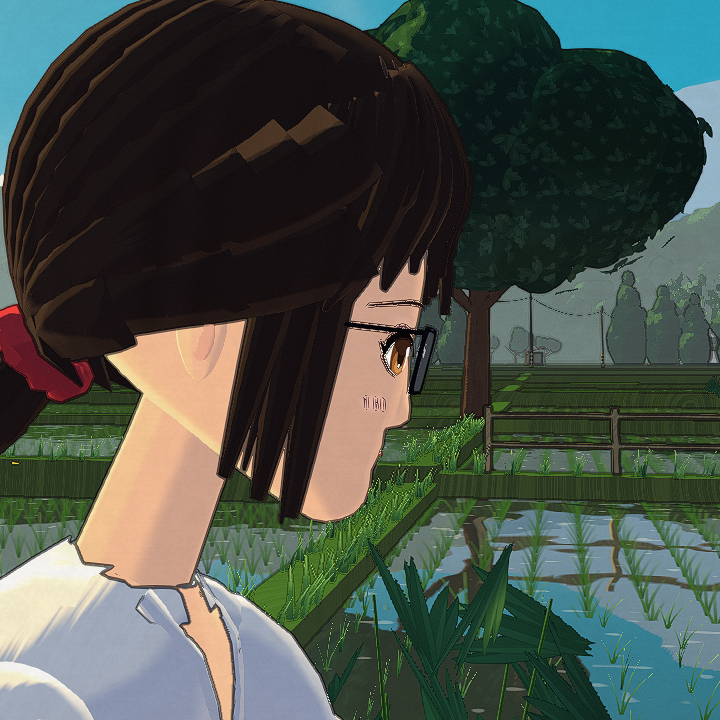
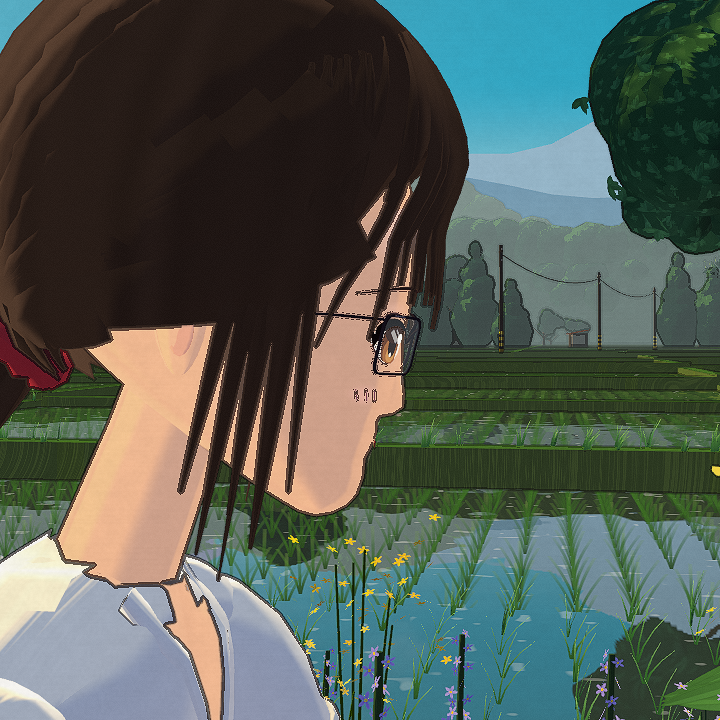
Head pass 2: layered airy hair (thin tapered bangs with gaps, swaying chin-length side locks, sweep strands over the ears, nape wisps, smooth radial hair shading), warm brown hair, fitted thin glasses, far-side skin shade, lid crease; character-only warm brown ink

diff --git a/src/rider/rider.ts b/src/rider/rider.ts
@@ -13,7 +13,7 @@ export { BIKE, PARK_LEAN, PARK_STEER } from "./bike";
  */
 
 const SKIN = "#f2cdb0";
-const HAIR = "#35271f";
+const HAIR = "#3b2c26";
 const SHORTS = "#1d2233";
 const BLOUSE = "#f6f4ef";
 /** Dusty navy-blue midi skirt. */
@@ -253,13 +253,13 @@ function placeOnHead(g: THREE.BufferGeometry, az: number, el: number, lift: numb
 }
 
 /** Hair volume above the skin: fuller on the crown and the back. */
-const shellOff = (d: THREE.Vector3) => 0.013 + 0.027 * Math.pow(Math.max(0, d.y), 1.2) + 0.016 * Math.max(0, d.z) * (0.6 + 0.4 * Math.max(0, d.y + 0.3));
+const shellOff = (d: THREE.Vector3) => 0.013 + 0.033 * Math.pow(Math.max(0, d.y), 1.2) + 0.016 * Math.max(0, d.z) * (0.6 + 0.4 * Math.max(0, d.y + 0.3)) + 0.007 * Math.abs(d.x) * smooth(-0.2, 0.4, d.y);
 
 /**
  * Tapered clump / ribbon along a path: diamond cross-section (sides ±w, ridge +th along `ups`,
  * a flatter belly underneath), smooth normals, closed ends, all faces wound outward.
  */
-function ribbon(pts: THREE.Vector3[], ups: THREE.Vector3[], w: number[], th: number[], color: string, mat: number, belly = 0.35): THREE.BufferGeometry {
+function ribbon(pts: THREE.Vector3[], ups: THREE.Vector3[], w: number[], th: number[], color: string, mat: number, belly = 0.35, radialN = 0): THREE.BufferGeometry {
   const n = pts.length;
   const pos: number[] = [];
   const idx: number[] = [];
@@ -304,6 +304,18 @@ function ribbon(pts: THREE.Vector3[], ups: THREE.Vector3[], w: number[], th: num
   g.setAttribute("position", new THREE.Float32BufferAttribute(pos, 3));
   g.setIndex(idx);
   g.computeVertexNormals();
+  // Hair lights as one mass: bend the strand normals toward the head's radial direction so the
+  // cel step runs as a smooth band over the hair instead of stair-stepping strand by strand.
+  if (radialN > 0) {
+    const na = g.attributes.normal, pa = g.attributes.position;
+    const nv = new THREE.Vector3(), rv = new THREE.Vector3();
+    for (let i = 0; i < na.count; i++) {
+      nv.fromBufferAttribute(na, i);
+      rv.fromBufferAttribute(pa, i).normalize();
+      nv.lerp(rv, radialN).normalize();
+      na.setXYZ(i, nv.x, nv.y, nv.z);
+    }
+  }
   return prep(g, color, mat);
 }
 
@@ -323,11 +335,11 @@ function hairStrand(az0: number, el0: number, az1: number, el1: number, width: n
     const off = (over ? 0.0022 + shellOff(d) : 0.006 + (shellOff(d) - 0.01) * f) + lift * t * t;
     pts.push(d.clone().multiplyScalar(faceR(d) + off));
     ups.push(radialNormal(d, faceR));
-    const ww = width * (0.28 + 0.72 * (1 - Math.pow(t, 1.8))) * (1 - 0.6 * Math.pow(t, 8));
+    const ww = width * (0.12 + 0.88 * (1 - Math.pow(t, 1.6))) * (1 - 0.6 * Math.pow(t, 8));
     w.push(ww);
     th.push(thick * (0.4 + 0.6 * ww / width));
   }
-  return ribbon(pts, ups, w, th, HAIR, M.hair, 0.5);
+  return ribbon(pts, ups, w, th, HAIR, M.hair, 0.5, 0.8);
 }
 
 /** Push a head-space point out to at least `off` above the skin. */
@@ -342,7 +354,7 @@ function offHead(p: THREE.Vector3, off: number): THREE.Vector3 {
  * hairline), then hangs straight down to yEnd past the cheek (never hugging the jaw), drifting
  * `fwd` in z; tapered to a narrow tip.
  */
-function hangLock(az0: number, el0: number, az1: number, el1: number, yEnd: number, width: number, fwd: number): THREE.BufferGeometry {
+function hangLock(az0: number, el0: number, az1: number, el1: number, yEnd: number, width: number, fwd: number, curl = 0): THREE.BufferGeometry {
   const pts: THREE.Vector3[] = [], ups: THREE.Vector3[] = [], w: number[] = [], th: number[] = [];
   const N1 = 8, N2 = 7, N = N1 + N2;
   for (let k = 0; k < N1; k++) {
@@ -357,17 +369,17 @@ function hangLock(az0: number, el0: number, az1: number, el1: number, yEnd: numb
   const p1 = pts[N1 - 1].clone(), sx = Math.sign(p1.x);
   for (let k = 1; k <= N2; k++) {
     const t = k / N2;
-    const p = V(p1.x - sx * 0.005 * t * t, p1.y + (yEnd - p1.y) * t, p1.z + fwd * t);
+    const p = V(p1.x - sx * (0.005 + curl) * t * t, p1.y + (yEnd - p1.y) * t, p1.z + fwd * t);
     pts.push(offHead(p, 0.0045));
     ups.push(V(p.x, 0, p.z * 0.5).normalize());
   }
   for (let k = 0; k < N; k++) {
     const t = k / (N - 1);
-    const ww = width * (0.2 + 0.8 * (1 - Math.pow(t, 1.6))) * (0.8 + 0.2 * smooth(0, 0.15, t));
+    const ww = width * (0.1 + 0.9 * (1 - Math.pow(t, 1.5))) * (0.8 + 0.2 * smooth(0, 0.15, t));
     w.push(ww);
-    th.push(0.0055 * (0.4 + 0.6 * ww / width));
+    th.push(0.004 * (0.4 + 0.6 * ww / width));
   }
-  return ribbon(pts, ups, w, th, HAIR, M.hair, 0.5);
+  return ribbon(pts, ups, w, th, HAIR, M.hair, 0.5, 0.8);
 }
 
 /**
@@ -1303,11 +1315,11 @@ export class Rider {
         la.push(az + s * X);
         le.push(EYE_EL + yTop(X) + 0.06 * hh);
         const t = k / 14;
-        lw.push(0.0008 + 0.0019 * Math.pow(t, 1.4));
+        lw.push(0.0008 + 0.0026 * Math.pow(t, 1.5));
       }
       la.push(az + s * hw * 1.2);
-      le.push(EYE_EL + tilt + 0.34 * hh);
-      lw.push(0.0005);
+      le.push(EYE_EL + tilt + 0.4 * hh);
+      lw.push(0.0007);
       eye.add(new THREE.Mesh(local(stroke(la, le, lw, 0.0036, "#1e120e")), uber(ID.eye, INK)));
       // Faint lower lash on the outer half.
       const ba: number[] = [], be: number[] = [], bw: number[] = [];
@@ -1325,9 +1337,9 @@ export class Rider {
         const X = hw * (-0.55 + (k / 8) * 1.4);
         ca.push(az + s * X);
         ce.push(EYE_EL + yTop(X) + 0.42 * hh);
-        cw.push(0.00045 * Math.sin(Math.PI * (k / 8)) + 0.0001);
+        cw.push(0.0006 * Math.sin(Math.PI * (k / 8)) + 0.00012);
       }
-      eye.add(new THREE.Mesh(local(stroke(ca, ce, cw, 0.0018, "#b27a6c")), uber(ID.eye, INK)));
+      eye.add(new THREE.Mesh(local(stroke(ca, ce, cw, 0.0018, "#8e5e50")), uber(ID.eye, INK)));
       // Thin, soft brow just above the frame, tapering to the tail.
       const brow: [number, number][] = [], bwid: number[] = [];
       for (let k = 0; k <= 10; k++) {
@@ -1348,7 +1360,7 @@ export class Rider {
     soft(placeOnHead(new THREE.CircleGeometry(1, 24).scale(0.035, 0.03, 1), 0, -1.2, 0.0012), SHADE, 0.5, 0);
     softXY(new THREE.CircleGeometry(1, 28).scale(0.06, 0.04, 1), 0, -0.058, 0.0009, [0.97, 0.7, 0.62], 0.16);
     // Soft cel shade under the fringe onto the forehead.
-    soft(placeOnHead(new THREE.PlaneGeometry(0.17, 0.04, 16, 6), 0, 0.42, 0.0011), SHADE, 0.5, 2);
+    soft(placeOnHead(new THREE.PlaneGeometry(0.17, 0.05, 16, 6), 0, 0.4, 0.0011), SHADE, 0.62, 2);
     // Nose: the tip is sculpted; add a small shade on one side and a faint nostril hint.
     const noseShade = strokeXY([[-0.0045, -0.036], [-0.0055, -0.043], [-0.0035, -0.048]], [0.00035, 0.0006, 0.0003], 0.001, "#d59a88");
     this.head.add(new THREE.Mesh(noseShade, uber(ID.eye, INK)));
@@ -1405,9 +1417,9 @@ export class Rider {
    * ears. Flat acetate material, one tiny highlight on each top rim; faint lenses with a glint.
    */
   private buildGlasses(eyeX: number, eyeY: number): void {
-    const FR = "#121014", HI = "#6a6570";
-    const W = 0.058, H = 0.033, RC = 0.0085;
-    const SIDE = 0.0017, TOP = 0.0023, BOT = 0.0017, DEPTH = 0.0024, CLEAR = 0.0095;
+    const FR = "#2a2024", HI = "#7a7078";
+    const W = 0.045, H = 0.029, RC = 0.0072;
+    const SIDE = 0.0011, TOP = 0.0015, BOT = 0.0011, DEPTH = 0.0016, CLEAR = 0.0052;
     const rrect = <T extends THREE.Path>(shape: T, x0: number, y0: number, x1: number, y1: number, r: number): T => {
       shape.moveTo(x0 + r, y0);
       shape.lineTo(x1 - r, y0);
@@ -1430,9 +1442,9 @@ export class Rider {
     };
     const bridgeEnds: THREE.Vector3[] = [];
     for (const s of [-1, 1]) {
-      const [az, el] = faceAt(s * (eyeX + 0.003), eyeY + 0.001);
+      const [az, el] = faceAt(s * (eyeX + 0.001), eyeY + 0.001);
       const d = dirOf(az, el);
-      const n = dirOf(s * 0.14, -0.04);
+      const n = dirOf(s * 0.44, -0.04);
       const ex = V(0, 1, 0).cross(n).normalize(); // ≈ -X
       const ey = n.clone().cross(ex).normalize();
       const C = d.clone().multiplyScalar(faceR(d));
@@ -1468,22 +1480,26 @@ export class Rider {
       // Hinge at the outer top corner; the temple runs straight back over the ear, then bends down.
       const hinge = V(-s * (W / 2 + SIDE * 0.5), H / 2 - 0.002, -DEPTH / 2).applyMatrix4(basis);
       const [Wy, Fy, By] = profAt(eyeY + 0.006);
-      const earTop = outside(V(s * (Wy + 0.004), eyeY + 0.004, 0.006), 0.0035);
+      const earTop = outside(V(s * (Wy + 0.002), eyeY + 0.004, 0.006), 0.0022);
       const behind = outside(V(s * (Wy - 0.008), eyeY - 0.016, 0.022), 0.0005);
       void Fy;
       void By;
       let prev = hinge;
       const path: THREE.Vector3[] = [];
-      for (let k = 1; k <= 8; k++) path.push(outside(hinge.clone().lerp(earTop, k / 8), 0.0035));
+      for (let k = 1; k <= 8; k++) path.push(outside(hinge.clone().lerp(earTop, k / 8), 0.0022));
       path.push(earTop.clone().lerp(behind, 0.5).add(V(s * 0.001, 0.001, 0)), behind);
       for (const p of path) {
-        parts.push(beam(prev, p, 0.0012, FR, M.lacquer, 6));
+        parts.push(beam(prev, p, 0.0008, FR, M.lacquer, 6));
         prev = p;
       }
     }
     const [bA, bB] = bridgeEnds;
-    const mid = bA.clone().add(bB).multiplyScalar(0.5).add(V(0, 0.0025, 0.001));
-    parts.push(beam(bA, mid, 0.0013, FR, M.lacquer, 6), beam(mid, bB, 0.0013, FR, M.lacquer, 6));
+    // Thin bridge dipping onto the nose between the lenses.
+    const [nAz, nEl] = faceAt(0, eyeY + 0.001);
+    const nd0 = dirOf(nAz, nEl);
+    const mid = nd0.clone().multiplyScalar(faceR(nd0) + 0.0016);
+    const qA = bA.clone().lerp(mid, 0.5).add(V(0, 0.0012, 0)), qB = bB.clone().lerp(mid, 0.5).add(V(0, 0.0012, 0));
+    parts.push(beam(bA, qA, 0.0009, FR, M.lacquer, 6), beam(qA, mid, 0.0009, FR, M.lacquer, 6), beam(mid, qB, 0.0009, FR, M.lacquer, 6), beam(qB, bB, 0.0009, FR, M.lacquer, 6));
     // Black acetate is its own line: excluded from the ink pass so it never doubles up.
     const frames = new THREE.Mesh(merge(parts), uber(ID.eye, -1));
     this.head.add(frames);
@@ -1527,33 +1543,39 @@ export class Rider {
     shell.computeVertexNormals();
     this.add(prep(shell, HAIR, M.hair), this.head, ID.hair);
 
-    // Airy fringe: separate tapered strands from a slightly off-centre part, tips just above the
-    // brows with the forehead showing between them; the outer ones sweep over the temples. Each
-    // strand pivots at its root and sways on a spring in update().
+    // Airy fringe after the sheet: many thin, tapered, gently curved strands of varied length from
+    // a part just off centre, falling to the brows / top of the frames with the forehead showing
+    // through the gaps; the outer ones sweep down over the temples. Each strand pivots at its root
+    // and sways on a spring in update().
     const PART = 0.1;
-    const fringe: [number, number, number, number, number][] = [
-      // tip x, tip y (face plane), half-width, sideways curve, tip lift
-      [-0.08, 0.0, 0.015, -0.05, 0.006], [-0.068, 0.02, 0.017, -0.045, 0.002], [-0.054, 0.03, 0.016, -0.035, 0.001],
-      [-0.04, 0.019, 0.017, -0.028, 0.001], [-0.026, 0.031, 0.016, -0.02, 0.001], [-0.012, 0.022, 0.017, -0.012, 0.001],
-      [0.002, 0.033, 0.016, -0.004, 0.001], [0.016, 0.021, 0.017, 0.006, 0.001], [0.03, 0.032, 0.016, 0.014, 0.001],
-      [0.044, 0.02, 0.017, 0.022, 0.001], [0.058, 0.03, 0.016, 0.032, 0.001], [0.07, 0.018, 0.017, 0.042, 0.002],
-      [0.081, 0.002, 0.015, 0.05, 0.006],
-      // Thin wisps crossing the gaps.
-      [0.023, 0.013, 0.006, 0.026, 0.002], [-0.06, 0.01, 0.006, -0.04, 0.003],
-      // Fillers under the part and at the temples so no scalp hole shows.
-      [PART * 0.4, 0.05, 0.02, 0, 0], [-0.07, 0.045, 0.02, -0.04, 0], [0.07, 0.045, 0.02, 0.04, 0], [-0.03, 0.05, 0.02, -0.02, 0], [0.03, 0.05, 0.02, 0.02, 0],
-    ];
+    const hsh = (k: number) => {
+      const v = Math.sin(k * 127.1 + 311.7) * 43758.5453;
+      return v - Math.floor(v);
+    };
+    const fringe: [number, number, number, number, number][] = [];
+    const NF = 27;
+    for (let k = 0; k < NF; k++) {
+      const u = -1 + (2 * k) / (NF - 1);
+      const tx = u * 0.084 + (hsh(k) - 0.5) * 0.004;
+      const edge = smooth(0.55, 1, Math.abs(u));
+      // Lengths vary strand to strand; a few dip to the top of the frames, the outer ones reach the temples.
+      const ty = 0.025 - 0.02 * hsh(k + 7) - (k % 4 === 1 ? 0.013 : 0) - 0.03 * edge;
+      const w = 0.0045 + 0.0035 * hsh(k + 3) + 0.002 * (1 - edge);
+      fringe.push([tx, ty, w, 0.05 * u * (0.5 + 0.5 * Math.abs(u)) + (hsh(k + 11) - 0.5) * 0.02, 0.0012 + 0.003 * edge]);
+    }
+    // Fillers under the part and at the temples so no scalp hole shows (short, wider, roots hidden).
+    for (const [tx, ty] of [[PART * 0.4, 0.05], [-0.07, 0.045], [0.07, 0.045], [-0.035, 0.052], [0.035, 0.052], [0, 0.056]]) fringe.push([tx, ty, 0.018, 0.02 * Math.sign(tx), 0]);
     fringe.forEach(([tx, ty, w, curve, lift], k) => {
       const [az, tip] = faceAt(tx, ty);
       const az0 = PART + (az - PART) * 0.55, el0 = 1.2 - 0.12 * Math.abs(az - PART);
-      const g = hairStrand(az0, el0, az, tip, w, 0.0075, curve, lift, false, 12);
+      const g = hairStrand(az0, el0, az, tip, w, 0.0042, curve, lift, false, 14);
       const rd = dirOf(az0, el0);
       const root = rd.clone().multiplyScalar(faceR(rd) + shellOff(rd));
       const grp = new THREE.Group();
       grp.position.copy(root);
       this.head.add(grp);
-      grp.add(new THREE.Mesh(g.translate(-root.x, -root.y, -root.z), uber(ID.hair, 0.6)));
-      this.fringe.push({ g: grp, radial: rd, side: V(0, 1, 0).cross(rd).normalize(), gain: 0.75 + 0.5 * Math.abs(Math.sin(k * 2.7)), ph: k * 1.37, long: lift > 0.004 ? 1 : 0 });
+      grp.add(new THREE.Mesh(g.translate(-root.x, -root.y, -root.z), uber(ID.hair, 0.3)));
+      this.fringe.push({ g: grp, radial: rd, side: V(0, 1, 0).cross(rd).normalize(), gain: 0.75 + 0.5 * Math.abs(Math.sin(k * 2.7)), ph: k * 1.37, long: lift > 0.003 ? 1 : 0 });
     });
 
     // Back, crown and sides combed up into the tie (hair pulled back over the ears' tops).
@@ -1573,40 +1595,40 @@ export class Rider {
           const az0 = s * (1.15 + k * 0.22);
           back.push(hairStrand(az0, 0.72 - k * 0.1, s * (Math.PI - 0.1 - 0.03 * k), TIE_EL + 0.02 * k, 0.024, 0.008, s * 0.05, 0, true, 12));
         }
-      this.head.add(new THREE.Mesh(merge(back), uber(ID.hair, 0.5)));
-    }
-    // Banded highlight on the crown: a row of short hatched strokes (not a glossy ring).
-    {
-      const dashes: THREE.BufferGeometry[] = [];
-      for (let k = 0; k < 11; k++) {
-        const az = -0.85 + (1.7 * k) / 10 + 0.02 * Math.sin(k * 3.1);
-        const len = 0.07 + 0.03 * Math.abs(Math.sin(k * 1.7));
-        const pts: THREE.Vector3[] = [], ups: THREE.Vector3[] = [], w: number[] = [], th: number[] = [];
-        for (let m = 0; m < 4; m++) {
-          const t = m / 3;
-          const d = dirOf(az + 0.03 * t, 1.12 - len * t + 0.03 * Math.cos(az * 2));
-          pts.push(d.clone().multiplyScalar(faceR(d) + shellOff(d) + 0.0012));
-          ups.push(d);
-          w.push(0.0017 * Math.sin(Math.PI * (0.15 + 0.7 * t)) + 0.0003);
-          th.push(0.0005);
+      // Strands sweeping from the temples back over the tops of the ears to the tie, hugging the
+      // side hairline so it reads as combed hair rather than a cap edge.
+      for (const s of [-1, 1])
+        for (let k = 0; k < 6; k++) {
+          const el0 = 0.14 + k * 0.07;
+          back.push(hairStrand(s * (1.2 + 0.03 * k), el0, s * (Math.PI - 0.12 - 0.02 * k), TIE_EL + 0.01 * k, 0.014 + 0.004 * (k % 2), 0.0045, s * (0.02 - 0.12 * (1 - k / 5)) , 0, true, 14));
         }
-        dashes.push(ribbon(pts, ups, w, th, "#4a382f", M.hair, 1));
-      }
-      this.head.add(new THREE.Mesh(merge(dashes), uber(ID.hair, -1)));
+      // Loose wisps along the hairline behind the ears and at the nape break the shell's edge.
+      for (const s of [-1, 1])
+        for (let k = 0; k < 6; k++) {
+          const az = s * (1.95 + k * 0.2);
+          back.push(hairStrand(az, hairline(az) + 0.26, az + s * 0.04, hairline(az) - 0.07 - 0.03 * (k % 2), 0.011, 0.004, s * 0.03, 0, true, 8));
+        }
+      this.head.add(new THREE.Mesh(merge(back), uber(ID.hair, 0.3)));
     }
-    // Chin-length side locks: along the temple, then hanging straight past the cheek in front of
-    // the ear, tips thinning into a couple of wisps.
+    // Long thin side locks from the temples, in front of the ears, framing the face down to the
+    // jaw / chin line; each sways from its root.
     for (const s of [-1, 1]) {
-      const locks: THREE.BufferGeometry[] = [];
-      for (const [az0, el0, az1, el1, yEnd, w, fwd] of [
-        [0.9, 0.95, 1.06, 0.12, -0.104, 0.019, -0.006],
-        [1.06, 0.9, 1.2, 0.08, -0.098, 0.019, 0.0],
-        [1.22, 0.85, 1.34, 0.1, -0.09, 0.016, 0.006],
-        [0.97, 0.9, 1.12, -0.02, -0.108, 0.006, -0.008],
-        [1.14, 0.88, 1.26, 0.0, -0.085, 0.006, 0.004],
-      ] as number[][])
-        locks.push(hangLock(s * az0, el0, s * az1, el1, yEnd, w, fwd));
-      this.head.add(new THREE.Mesh(merge(locks), uber(ID.hair, 0.6)));
+      ([
+        [1.02, 0.95, 1.2, 0.14, CHIN_Y - 0.004, 0.0105, -0.004, 0.0],
+        [1.12, 0.92, 1.3, 0.1, CHIN_Y + 0.01, 0.0095, 0.0, 0.002],
+        [1.22, 0.9, 1.4, 0.08, CHIN_Y - 0.01, 0.008, 0.004, -0.002],
+        [0.98, 0.95, 1.14, 0.18, CHIN_Y + 0.026, 0.0055, -0.006, 0.003],
+        [1.3, 0.86, 1.46, 0.06, CHIN_Y + 0.018, 0.007, 0.007, 0.001],
+        [1.16, 0.9, 1.34, 0.05, CHIN_Y - 0.02, 0.005, 0.002, 0.003],
+      ] as number[][]).forEach(([az0, el0, az1, el1, yEnd, w, fwd, curl], k) => {
+        const rd = dirOf(s * az0, el0);
+        const root = rd.clone().multiplyScalar(faceR(rd) + shellOff(rd));
+        const grp = new THREE.Group();
+        grp.position.copy(root);
+        this.head.add(grp);
+        grp.add(new THREE.Mesh(hangLock(s * az0, el0, s * az1, el1, yEnd, w, fwd, curl).translate(-root.x, -root.y, -root.z), uber(ID.hair, 0.3)));
+        this.fringe.push({ g: grp, radial: rd, side: V(0, 1, 0).cross(rd).normalize(), gain: 0.5 + 0.2 * k, ph: 2.1 + k * 1.9 + s, long: 1 });
+      });
     }
 
     // Long ponytail from a red scrunchie at back-of-head height: a tapered 7-segment tail (each
@@ -1640,7 +1662,7 @@ export class Rider {
         if (i === 0) seg.position.copy(start);
         else seg.position.set(0, -L[i - 1], 0);
         parent.add(seg);
-        seg.add(new THREE.Mesh(lobed(RT[i], RB[i], L[i], lobes, 0.9), uber(ID.hair, 0.6)));
+        seg.add(new THREE.Mesh(lobed(RT[i], RB[i], L[i], lobes, 0.9), uber(ID.hair, 0.4)));
         this.pony.push(seg);
         this.ponyLen.push(L[i]);
         parent = seg;

diff --git a/src/render/materials.ts b/src/render/materials.ts
@@ -202,6 +202,8 @@ vec3 toonT(vec3 base, vec3 N, vec3 wpos, float jitter, float paint, float rimAmt
   float rim = smoothstep(0.58, 0.72, fr) * rimAmt;
   float sunSide = smoothstep(-0.3, 0.3, dot(N, uSunDir) + 0.2) * (0.3 + 0.7 * sv);
   col += uRimColor * base * rim * (0.2 + 0.8 * sunSide) * 0.8;
+  // Skin turning away from the camera takes one soft cel shade (far cheek in 3/4, jaw edges).
+  if (gSoftCast > 0.5) col = mix(col, cSh, smoothstep(0.5, 0.58, fr) * 0.7);
   col *= 1.0 + (br - 0.5) * 0.14 * paint;
   return min(col, vec3(0.97));
 }
@@ -604,7 +606,7 @@ void main(){
 
   // Skin shades warm (peach/rose) instead of the cool environment shadow.
   // Skin shades to a soft pink-lavender instead of the cool environment shadow.
-  vec3 shT = (HAS(7) && mt == 7) ? vec3(0.9, 0.75, 0.7) : uShadowTint;
+  vec3 shT = (HAS(7) && mt == 7) ? vec3(0.9, 0.75, 0.7) : (HAS(15) && mt == 15) ? vec3(0.42, 0.4, 0.38) : uShadowTint;
   if ((HAS(7) && mt == 7)) jit += 0.34;
   vec3 col = toonT(base, N, vWPos, jit, paint, rim, soft, shT) + emis;
   if ((HAS(26) && mt == 26) || (HAS(29) && mt == 29)) {

diff --git a/src/render/post.ts b/src/render/post.ts
@@ -135,7 +135,10 @@ export class Post {
           }
           float fade = 1.0 - smoothstep(60.0, 420.0, dC) * 0.75;
           e *= clamp(mask, 0.0, 1.0) * fade;
-          vec3 inkCol = mix(col * 0.22, uInk, 0.55);
+          // The rider (body 13, hair 14, skin 18, eye 19) is inked in warm dark brown.
+          float idC = floor(nC.z * 32.0 + 0.5);
+          float chr = (idC == 13.0 || idC == 14.0 || idC == 18.0 || idC == 19.0) ? 1.0 : 0.0;
+          vec3 inkCol = mix(mix(col * 0.22, uInk, 0.55), vec3(0.042, 0.023, 0.016), chr * 0.85);
           col = mix(col, inkCol, clamp(e, 0.0, 1.0) * 0.92);
           gl_FragColor = vec4(col, 1.0);
         }`,

diff --git a/TASKS.md b/TASKS.md
@@ -20,10 +20,11 @@ The game is live on GitHub Pages (public repo StarKnightt/summer-cycle), the Ver
 
 - [x] Rename to Summer Cycle (title, loader, README, package name, audio lab)
 - [x] Character rebuild (`feature/face`): 20-year-old rider matching `refs/girl_model_sheet.png` + production refs — sculpted oval head with blunt rounded chin, warm-brown eyes, glasses, airy bangs, nape ponytail + scrunchie; healthy adult body (~7 heads, lofted torso, tapered limbs, hands, loafers); white blouse + dusty-blue midi skirt (seated drape); loader SVG girl to match. Tools: `scripts/face-shots.mjs`, `face-compare.py`. Shots: `shots/face/`
+- [x] Head pass 2 (`feature/face`): layered hair (27 thin tapered bang strands with gaps, 6 swaying side locks per side to the chin, sweep strands over the ears, nape wisps, radial-blended normals so the cel step is one smooth band), warm brown #3b2c26, thinner wrapped glasses with a nose-resting bridge, far-side skin shade, visible lid crease, bolder outer lash
 
 ## Found during the perf pass
 - [ ] GPU is often shared with other processes (user's Chrome ~79% 3D engine at times, other agents' headless Chromium): benchmark only when `nvidia-smi` is near idle; `scripts/perf.mjs` prints per-pass GPU ms to spot it
-- [ ] Global ink colour is near-black (`post.ts` uInk); production refs use warm brown ≈ #3A2A22 — worth a look in the critic pass (not changed in `feature/face`, affects the whole world)
+- [x] Character-only warm ink: outlines on rider ids (body/hair/skin/eye) tinted #3A2A22 in `post.ts`; world ink unchanged
 - [ ] Character FPS unconfirmed on an idle GPU (GPU at 99% from other processes during `feature/face`); rider cost vs master: same mesh count (283 vs 281), +15k tris
 - [x] `refs/girl_model_sheet.png` committed (character target); `refs/web/` + `scripts/_refgrab.mjs` gitignored
 
